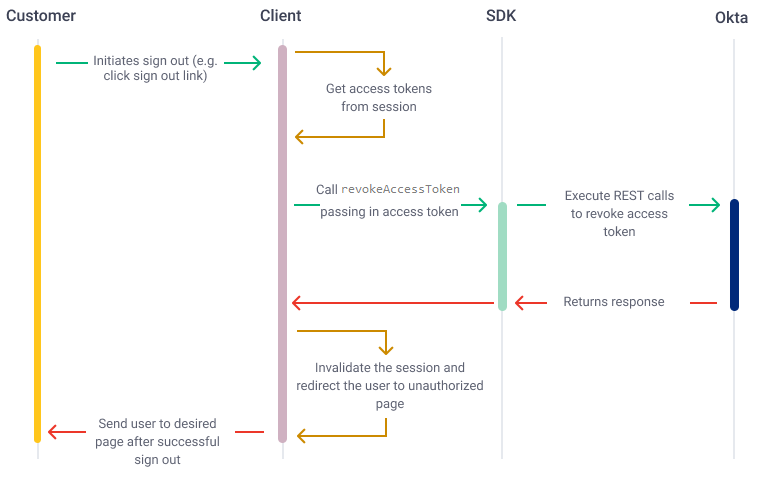
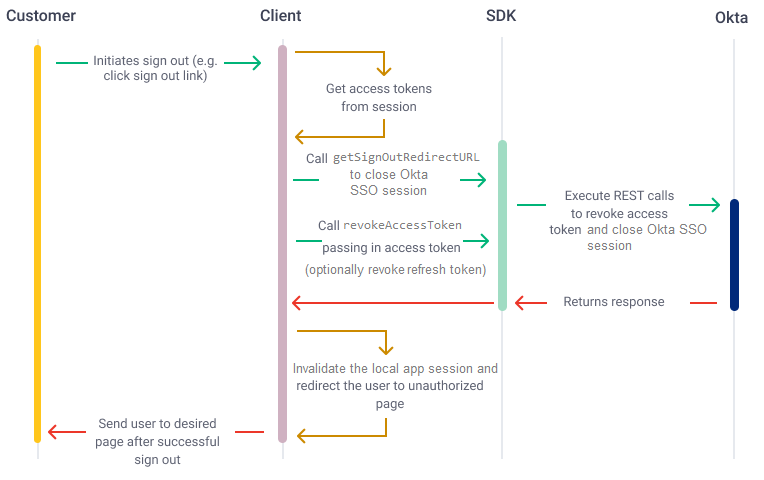
Revised sequence diagram and modified some content in integration steps.

diff --git a/packages/@okta/vuepress-site/docs/guides/oie-embedded-sdk-use-cases/oie-embedded-sdk-use-case-basic-sign-out/nodejs/integrationsteps.md b/packages/@okta/vuepress-site/docs/guides/oie-embedded-sdk-use-cases/oie-embedded-sdk-use-case-basic-sign-out/nodejs/integrationsteps.md
@@ -11,13 +11,13 @@ The first step is to create a link, button, or other similar UI element that all
 
 </div>
 
-### Step 2: Revoke access token
+### Step 2: Close Okta SSO session and revoke access token
 
 When the sign-out request is initiated, create the following flow:
 
 1. Obtain the access token from the active session state. For example, by calling `getAuthClient` from `getAuthClient.js` in the SDK sample application.
 
-1. Call the `getSignOutRedirectURL` before revoking the token (`revokeAccessToken`) and invalidating the local session, as shown in the SDK sample application's `logout.js` file:
+1. Call the `getSignOutRedirectURL` to close the Okta SSO session before revoking the token (`revokeAccessToken`) and invalidating the local session, as shown in the SDK sample application's `logout.js` file:
 
 ```JavaScript
 router.post('/logout', async (req, res) => {
@@ -38,11 +38,12 @@ router.post('/logout', async (req, res) => {
   }
 });
 ```
+
 >**Note**: Revoking the refresh token is optional, as it requires `offline_access` in scopes.
 
 ### Step 3: Send user to the signed out page
 
-After the access token is revoked and the session is no longer valid, redirect the user to the signed-out page.
+After the access token is revoked and the local app session is no longer valid, redirect the user to the signed-out page.
 
 ```JavaScript
 // Clear okta session with logout redirect

diff --git a/packages/@okta/vuepress-site/docs/guides/oie-embedded-sdk-use-cases/oie-embedded-sdk-use-case-basic-sign-out/nodejs/summaryofsteps.md b/packages/@okta/vuepress-site/docs/guides/oie-embedded-sdk-use-cases/oie-embedded-sdk-use-case-basic-sign-out/nodejs/summaryofsteps.md
@@ -4,7 +4,7 @@ This use case signs a user out of the local app by revoking their session tokens
 
 <div class="common-image-format">
 
-![Basic sign out sequence diagram for Java](/img/oie-embedded-sdk/oie-embedded-sdk-use-case-simple-sign-out-seq-nodejs.png
- "Basic sign out sequence diagram for Java]")
+![Basic sign out sequence diagram for Node.js](/img/oie-embedded-sdk/oie-embedded-sdk-use-case-simple-sign-out-seq-nodejs.png
+ "Basic sign out sequence diagram for Node.js]")
 
 </div>
